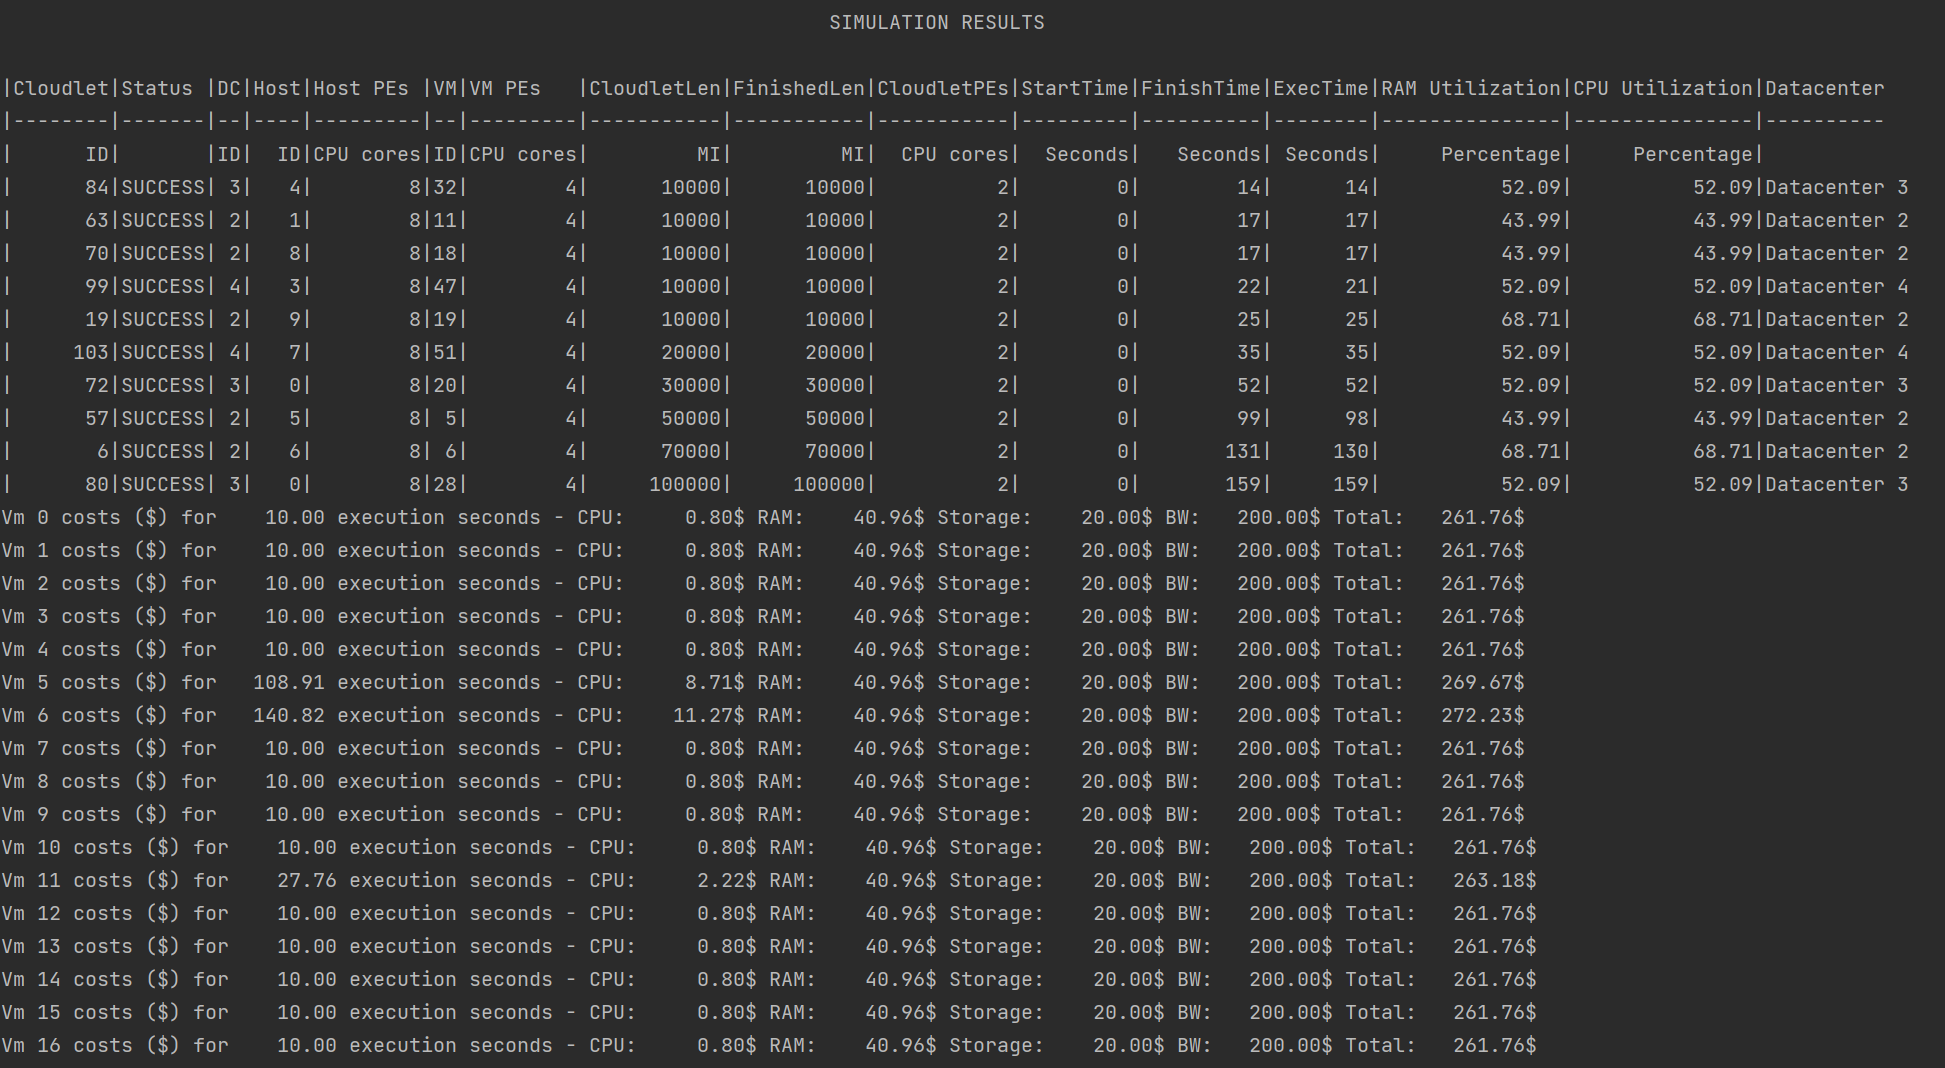
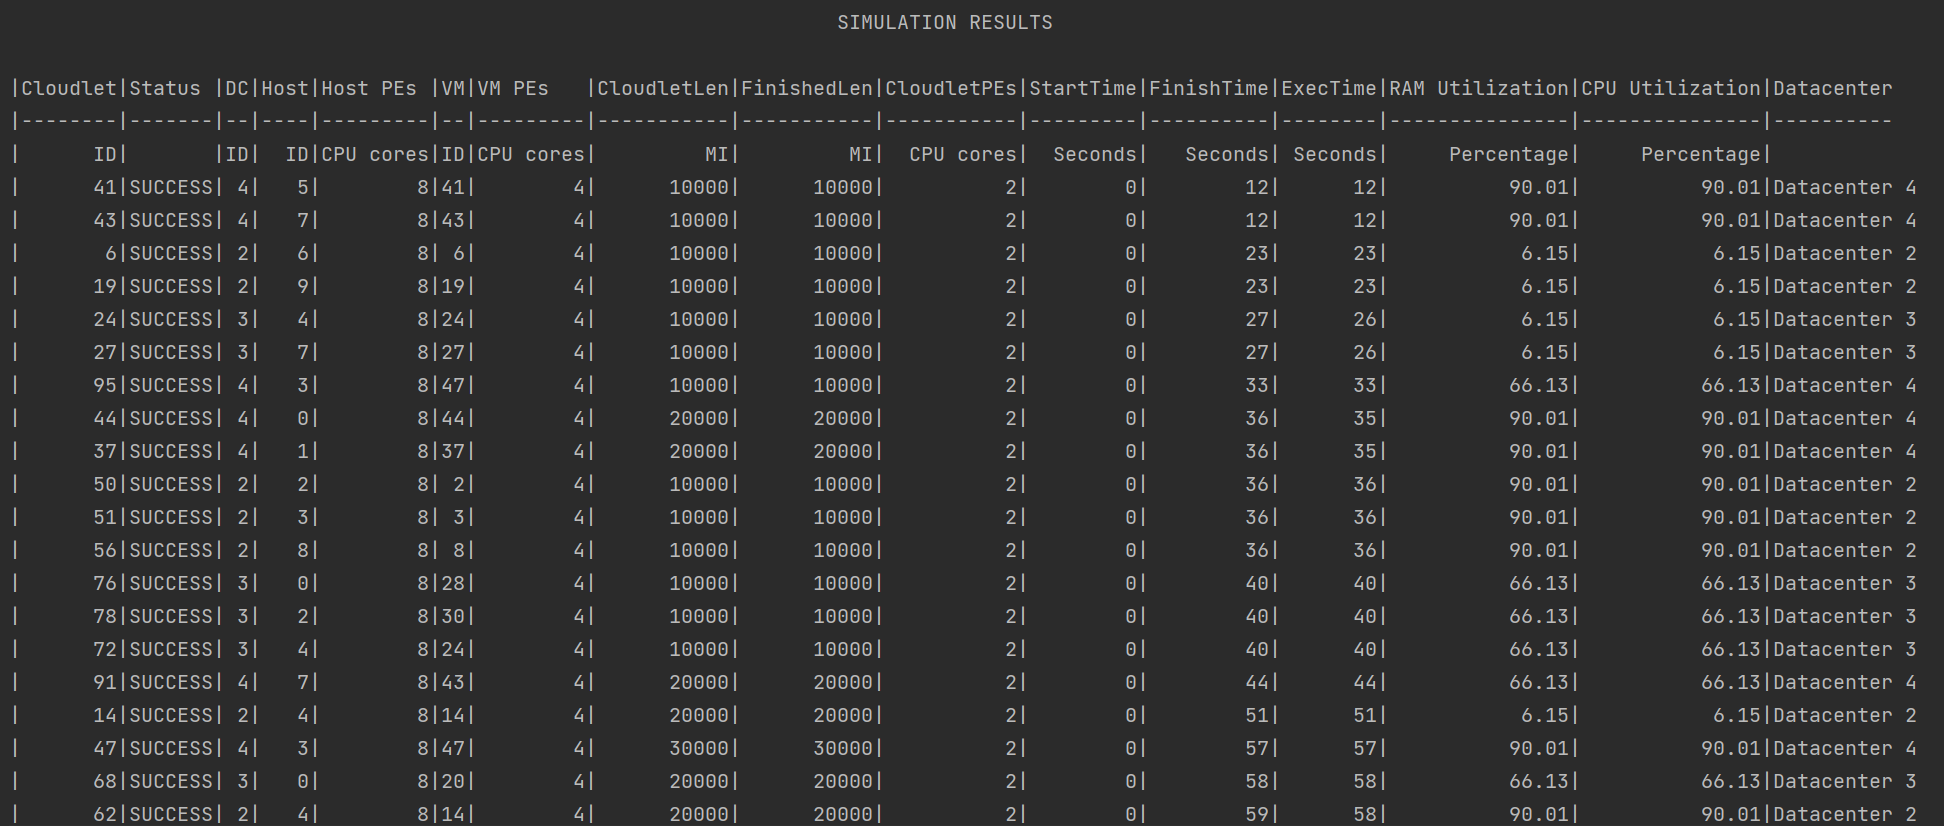
README update

Changed region(s): [[0.0, 0.0605, 0.9877, 0.9988], [0.4321, 0.0, 0.5556, 0.0303], [0.4938, 0.3027, 0.5247, 0.3935]]

diff --git a/README.md b/README.md
@@ -42,6 +42,8 @@ For the second simulation, we take the same steps as above, but instead of First
 ### 3) VMUtilAndSchedule.scala
 This program runs two Cloudsim simulations that compares different VM Scheduler and Utilization policies. To do this, we first run a simulation just as described above. However, while creating our datacenters we specify the first datacenter to use VmSchedulerSpaceShared, and the second datacenter to use VmSchedulerTimeShared. (This is controlled through the config file and can be flipped around too.)<br>
 The cloudlets in the first simulation use UtilizationModelStochastic, while the second simulation use UtilizationModelFull.<br>
+In the third and fourth simulations, we keep the Cloudlet utilization as Full for both, and then change the first datacenter to use a SpaceShared VMScheduler.<br>
+This program is capable to testing any combination of VMScheduler TimeShared, SpaceShared and Utilization model Stochastic and Full.
 While creating the datacenters, we also specify the costs the datacenter has, which we then use at the end of the simulations to collect the cost of running our particular setup.
 
 ### 4) CloudProvider.scala
@@ -76,27 +78,34 @@ Once the three datacenters are created, the Vms are spun up from all 3 configura
 ## Results:
 
 ### 1) VMAllocation.scala
+Simulation 1:<br>
 ![](images/VMalloc1.png)
-
+<br>Simulation 2:<br>
 ![](images/VMalloc2.png)
-
+<br>
 ### 2) VMUtilAndSchedule.scala
-![](images/VMUtil1.png)
-
-![](images/VMUtil2.png)
-
+TimeShared and Stochastic Utilization:<br>
+![](images/VMUtil1.png)<br>
+TimeShared and Full utilization:<br>
+![](images/VMUtil2.png)<br>
+SpaceShared and Full utilization:<br>
+![](images/VMUtil3.png)<br>
+TimeShared and Full utilization:<br>
+![](images/VMUtil4.png)<br>
 ### 3) CloudProvider.scala
+Execution Stats:<br>
 ![](images/Cloudprovider%201.png)
-
+<br>Cost Data:<br>
 ![](images/Cloudprovider%202.png)
-
+<br>Power Data:<br>
 ![](images/Cloudprovider%203.png)
-
+<br>
 ### 4) ScalingDatacenter.scala
+Execution Data:<br>
 ![](images/Scaling1.png)
 
 ![](images/Scaling2.png)
-
+<br>Cost Data:<br>
 ![](images/Scaling3.png)
 
 ### 5) IaasPaasSaas.scala
@@ -118,9 +127,26 @@ Round Robin moves through the Hosts and assigns the VMs one by one, which means 
 THe process continues till all the hosts are assigned.
 
 ### 2) VMUtilAndSchedule.scala
+This simulation outlines the differences between the VM Scheduling policies of Space Shared and Time Shared. ALong with this, we can also see the effects of the cloudlet utilization models of Stochastic and Full.
+Using TimeShared for both, we can see the differences between utilization model stochastic and full - In stochastic, the VMs run for 27s and cost us $263.15. However, using UtilizationModelFull, we can see that half our cloudlets do not have enough resources to run, and ultimately are unable to execute, costing us millions of dollars.<br>
+The second experiment we run with this simulation is keeping both utilization models at full, and configuring the first simulation to use a Space Shared scheduler, while the second simulation uses a Time Shared scheduler.
+This time, we can see that neither of the simulations have all cloudlets complete successfully, and end up costing millions of dollars.
 
 ### 3) CloudProvider.scala
+The third program shows us how networks behave in the simulation. We create two datacenters, one using a tree network and one using a mesh network. The datacenter with the tree network is assigned a map/reduce task, and the datacenter with the mesh network is assigned a diffusion task.<br>
+This simulation not only introduces networks, but also shows us how tasks work with cloudlets, and how tasks can be added one after the other to cloudlets for sequential execution. We also see how data transfer can be simulated in the network using the send and receive tasks, and how a task will wait for receives to happen before execution of any further tasks. We also see how costs differ with execution time and task size.
+We can deduce that a mesh network, while introducing more links that serve to reduce congestion in the network, is more expensive, since it uses many more switches with far higher port counts, and similarly high number of connecting wires between elements, which drives up the cost of implementing this network as opposed to a simple tree-based network. 
 
 ### 4) ScalingDatacenter.scala
+This simulation shows us how a datacenter can react to an incoming dynamic workload by adding more VMs as needed. We start of with 10,000 hosts, with only 10,000 VMs hosted which run 20,000 cloudlets. During the course of execution we use a listener to add more cloudlets, simulating the arrival of workloads while the datacenter is running. The datacenter uses the predicate - is CPU utilization > 70% and is the RAM utilization > 50%. If this is satisfied, a new VM is spun up and added to our datacenter.<br>
+One important thing to note here is that there must be free hosts available to host this new datacenter, or else there will be no machines available to allocate the VM to which would make scaling useless.
 
 ### 5) IaasPaasSaas.scala
+This is the last simulation that is only for grad students - here we initialize 3 different datacenters which offer different models of the cloud services. The first datacenter offers us Iaas, the second offers us Paas and the third offers us Saas. These models are implemented using config files with varying degrees of user control between the models.
+An Iaas user has full control of the VMs and cloudlets that they spin up, while a Paas User can only define how many VMs they need and some of the cloudlet settings. A Saas user can only decide what size their workload is by controlling the bare minimum of cloudlet settings.<br>
+The rest of settings in these models are locked behind the Provider config files, which the Cloud Provider uses to provision the rest of the resources. This simulation shows us how we can offer three different models using three different datacenters, and let the broker decide how to distribute the workloads.
+
+## Limitations:
+1) The user of this simulation must have Java 17 installed on their machine.
+2) The networks are created using code instead of BRITE files (since I could not get them working in the time I had), which means that reconfiguring the networks requires code changes.
+3) Some of the larger simulations have a lot of data to process, which is put in the corresponding CSV and TXT files. The CSV files must be formatted using Text to Column in Excel before it can be used to infer the output of the simulation.
